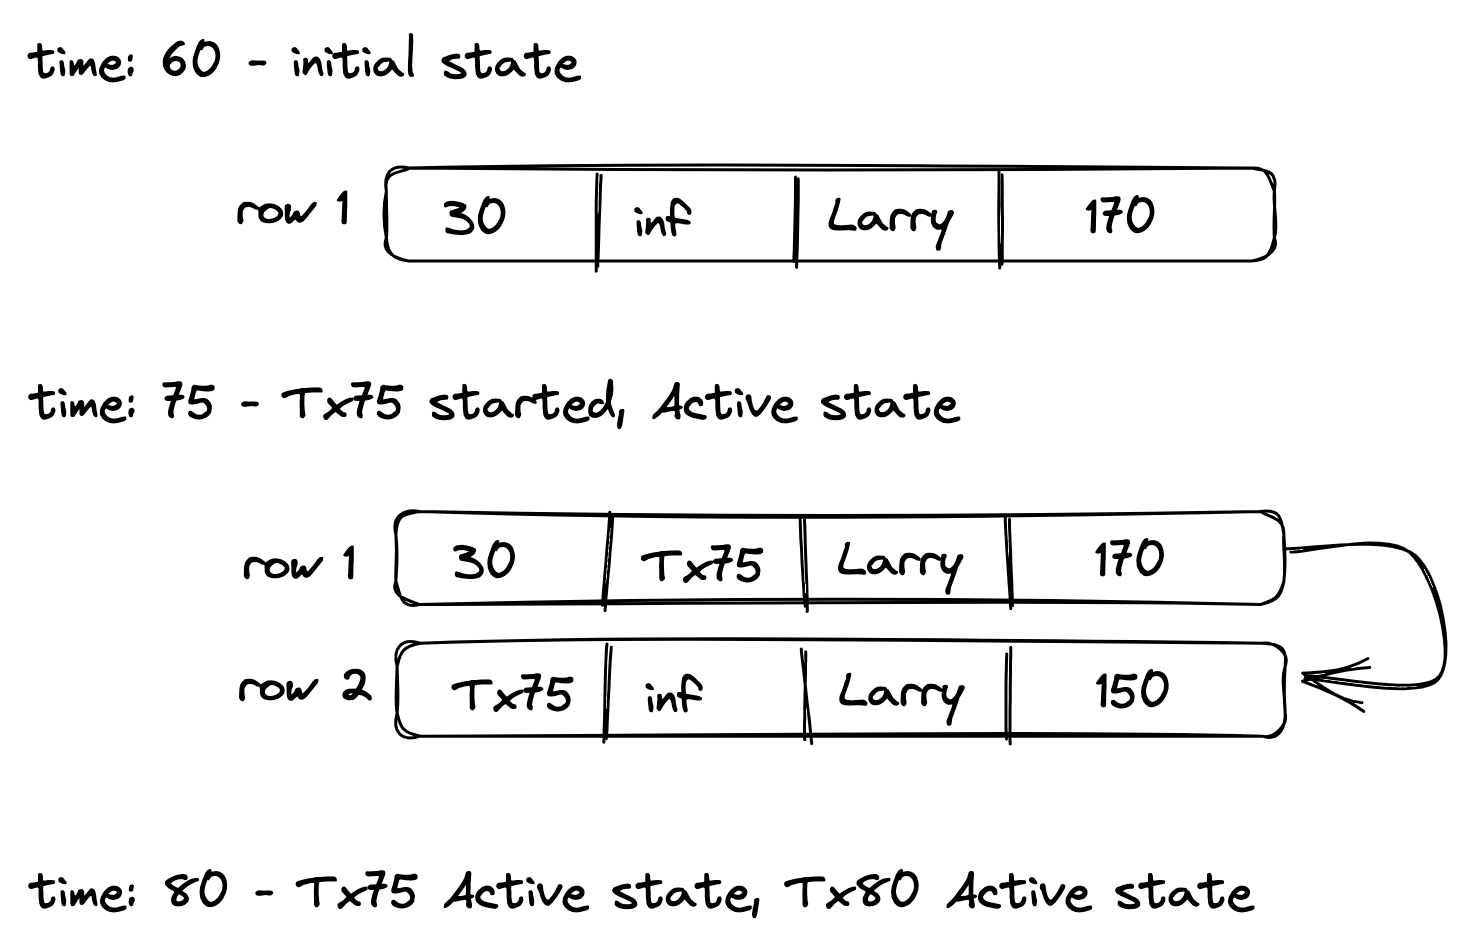
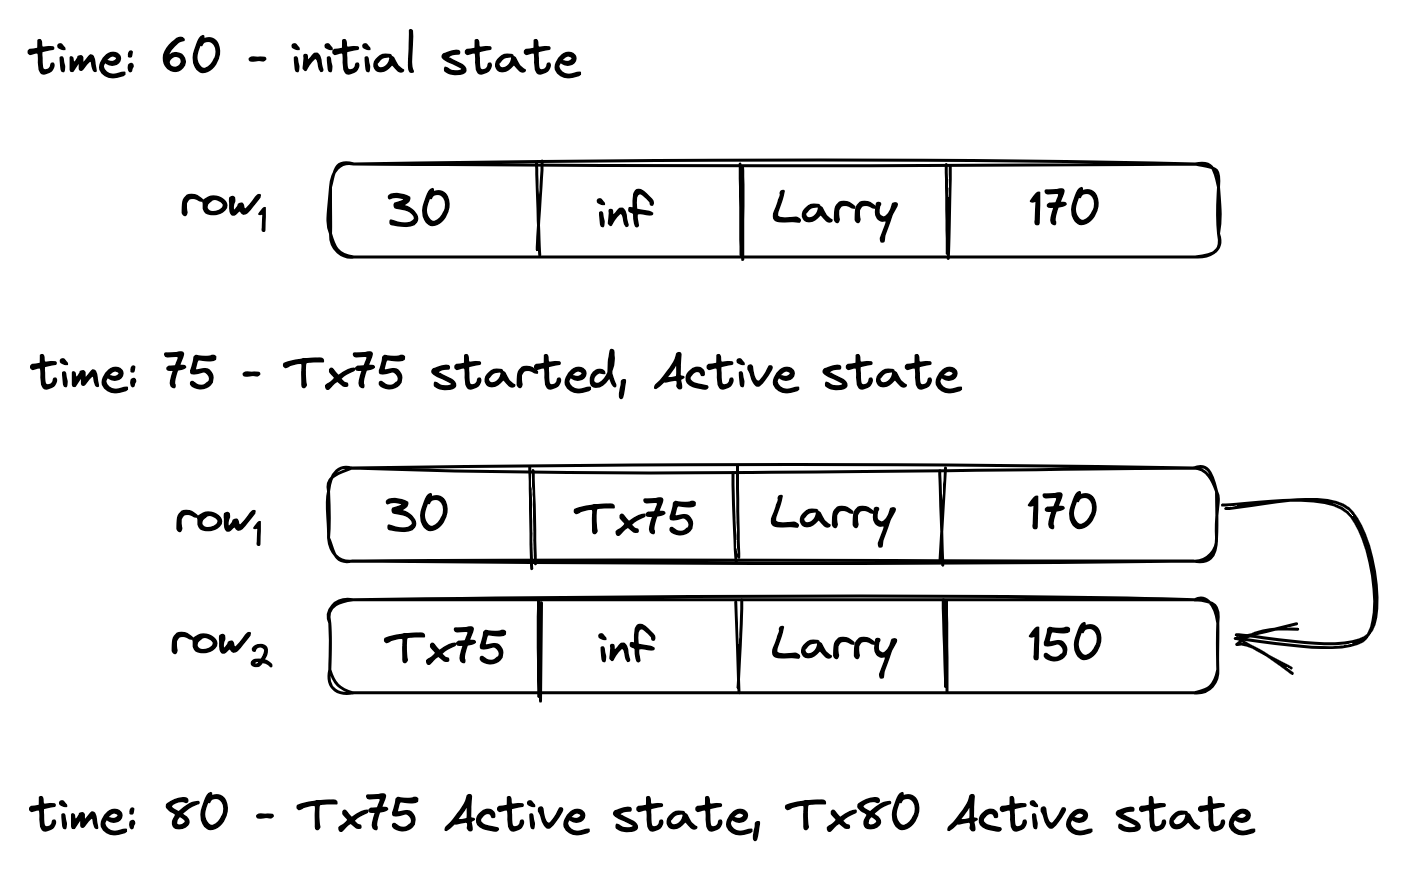
update image

diff --git a/content/posts/hekaton-paper-typo.md b/content/posts/hekaton-paper-typo.md
@@ -16,18 +16,22 @@ Following the conventions of the paper, here is a state diagram:
 ![](/blag/images/2023/hekaton-state.png)
 
 1. At time 60, we observe our initial state, where the value of Larry is 170. This is a committed row.
-2. At time 75, a transaction is started and is in `Active` state. It wants to update the value to 150, so it appended row 2
+2. At time 75, a transaction is started and is in `Active` state. It wants to update the value to 150, so it appended row<sub>2</sub>
 3. At time 80, another new transaction, Tx80 is started, and it wants to read the value of Larry. Both Tx75 and Tx80 are in `Active` state.
 
 What is the value Tx80 going to read?
 
-Tx80 can't see row 2 because of Table 1 rules. If Tx75 is in `Active` state, only Tx75 can see row 2. This makes sense because row 2 is fresh, and Tx75 might drop the changes later. We don't want any other transactions to see this row.
+Tx80 can't see row<sub>2</sub> because of Table 1 rules. If Tx75 is in `Active` state, only Tx75 can see row<sub>2</sub>. This makes sense because row<sub>2</sub> is fresh, and Tx75 might drop the changes later. We don't want any other transactions to see this row.
 
-But can Tx80 see row 1? The rules from the paper contradict that since Tx75 is in `Active` state:
+But can Tx80 see row<sub>1</sub>? The rules from the paper contradict that since Tx75 is in `Active` state:
+
+<img src="{filename}/images/2023/hekaton-table-2.png" alt="makey makey offer page" style="width: 50%;"/>
 
 ![](/blag/images/2023/hekaton-table-2.png)
 
-This is a typo, and Tx80 should be able to see row 1 since it is a committed row. Also, Tx75 should not be able to see row 1 anymore; instead, only row 2, which it is updating.
+{{ $image := .Resources.GetMatch "sunset.jpg" }}
+
+This is a typo, and Tx80 should be able to see row<sub>1</sub> since it is a committed row. Also, Tx75 should not be able to see row<sub>1</sub> anymore; instead, only row<sub>2</sub>, which it is updating.
 
 ## Implications
 - Committed rows can become invisible for new transactions
@@ -40,5 +44,5 @@ The fix is simple:
 > V is visible only if TE is not T
 
 By doing this:
-- Tx80 can now see row 1 (but not row 2)
-- Tx75 can now see row 2 (but not row 1)
+- Tx80 can now see row<sub>1</sub> (but not row<sub>2</sub>)
+- Tx75 can now see row<sub>2</sub> (but not row<sub>1</sub>)
